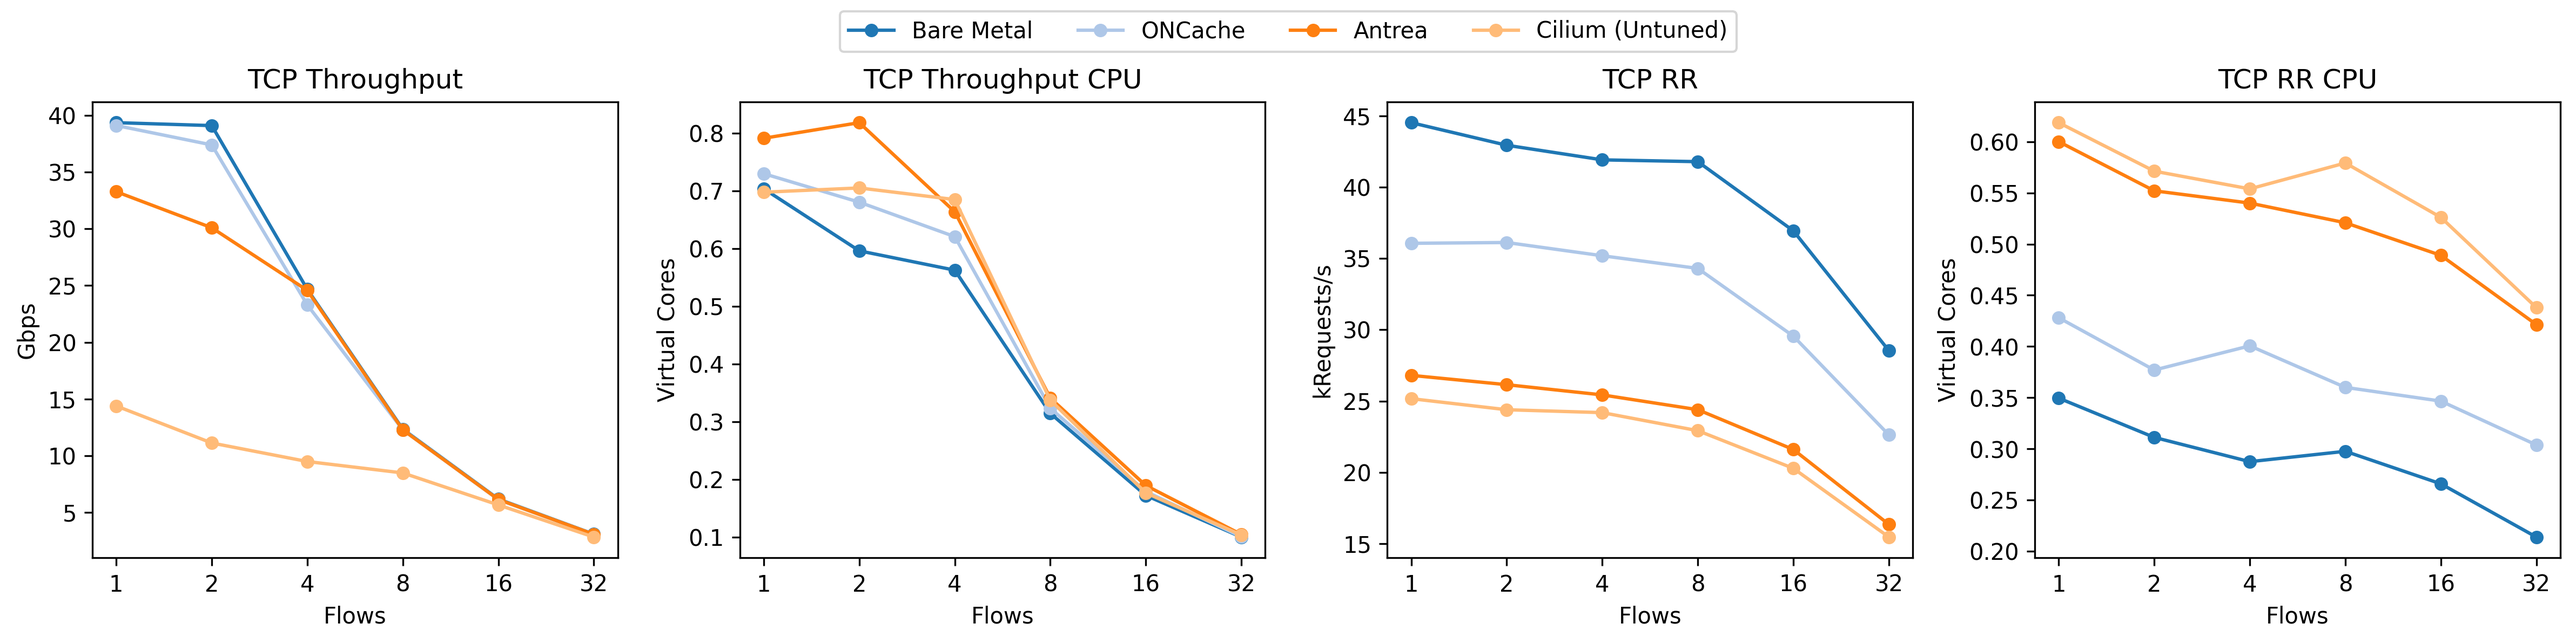
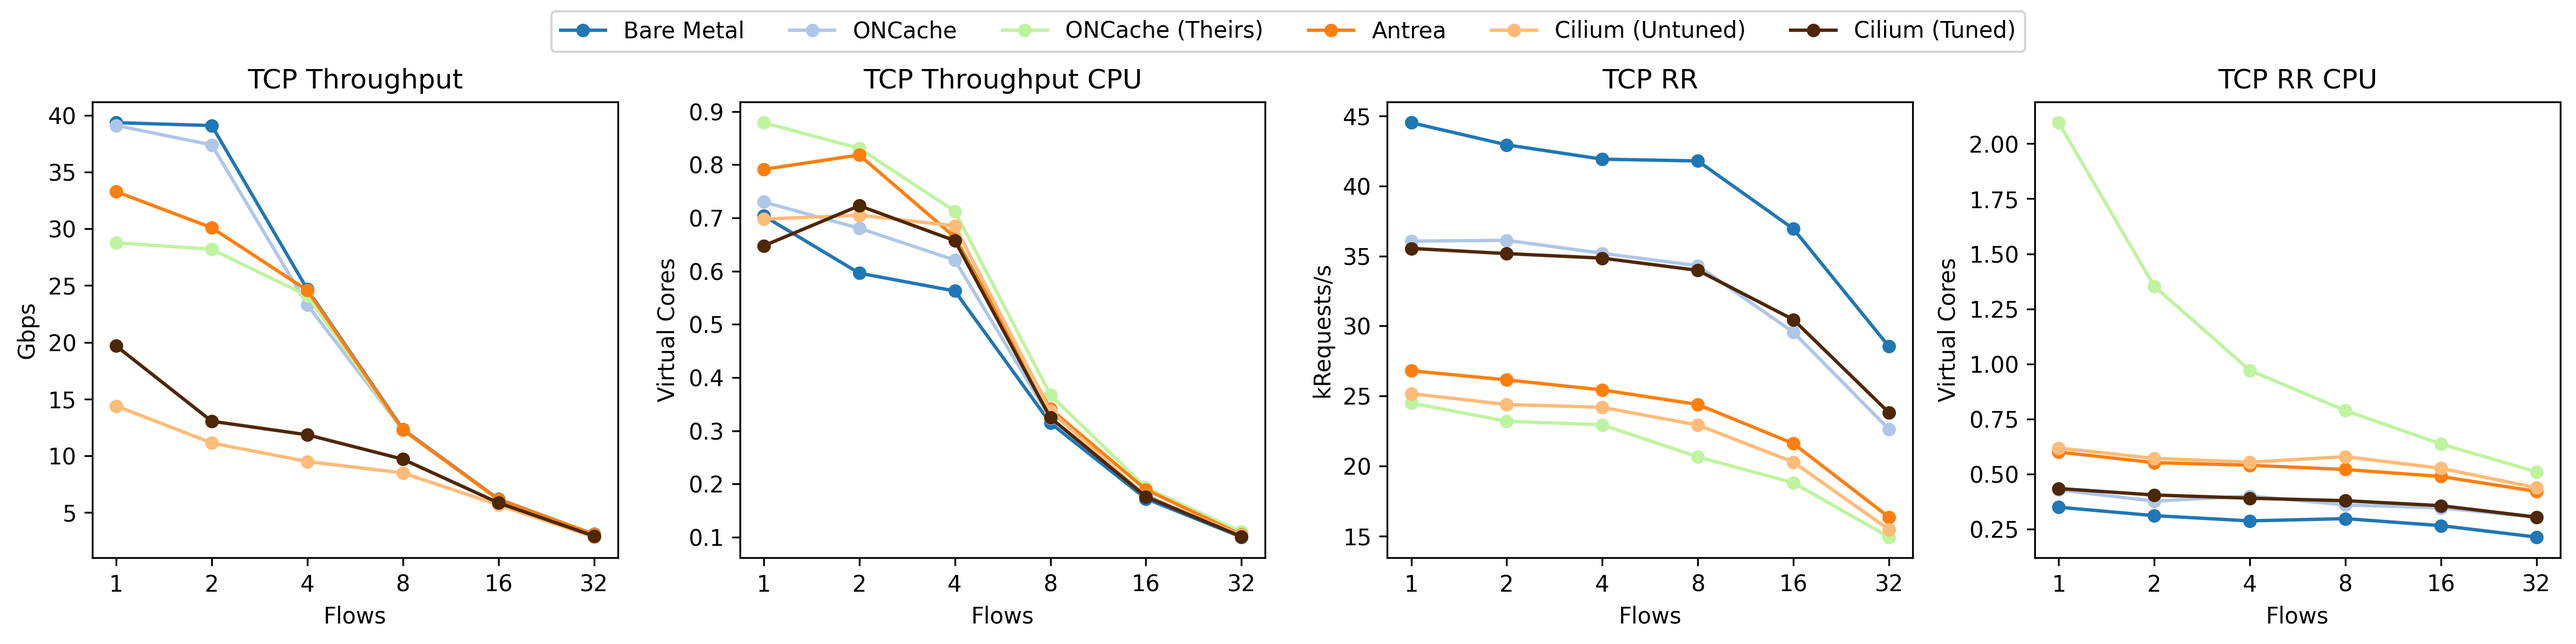
Update plots

diff --git a/plot.py b/plot.py
@@ -35,11 +35,11 @@ DATA_CONFIG: Dict[str, DataConfig] = {
         "label": "ONCache",
         "color": "#AEC7E8",
     },
-    # "k8s-oncache-orig": {
-    #     "filename": "{}_k8s_output_oncache_orig.csv",
-    #     "label": "ONCache (Theirs)",
-    #     "color": "#BEF49F",
-    # },
+    "k8s-oncache-orig": {
+        "filename": "{}_k8s_output_oncache_orig.csv",
+        "label": "ONCache (Theirs)",
+        "color": "#BEF49F",
+    },
     "k8s-antrea": {
         "filename": "{}_k8s_output_antrea.csv",
         "label": "Antrea",
@@ -50,11 +50,11 @@ DATA_CONFIG: Dict[str, DataConfig] = {
         "label": "Cilium (Untuned)",
         "color": "#FFBB78",
     },
-    # "k8s-cilium-tuned": {
-    #     "filename": "{}_k8s_output_cilium_tuned.csv",
-    #     "label": "Cilium (Tuned)",
-    #     "color": "#4E2705",
-    # },
+    "k8s-cilium-tuned": {
+        "filename": "{}_k8s_output_cilium_tuned.csv",
+        "label": "Cilium (Tuned)",
+        "color": "#4E2705",
+    },
 }
 
 GRAPHS: List[Graph] = [
